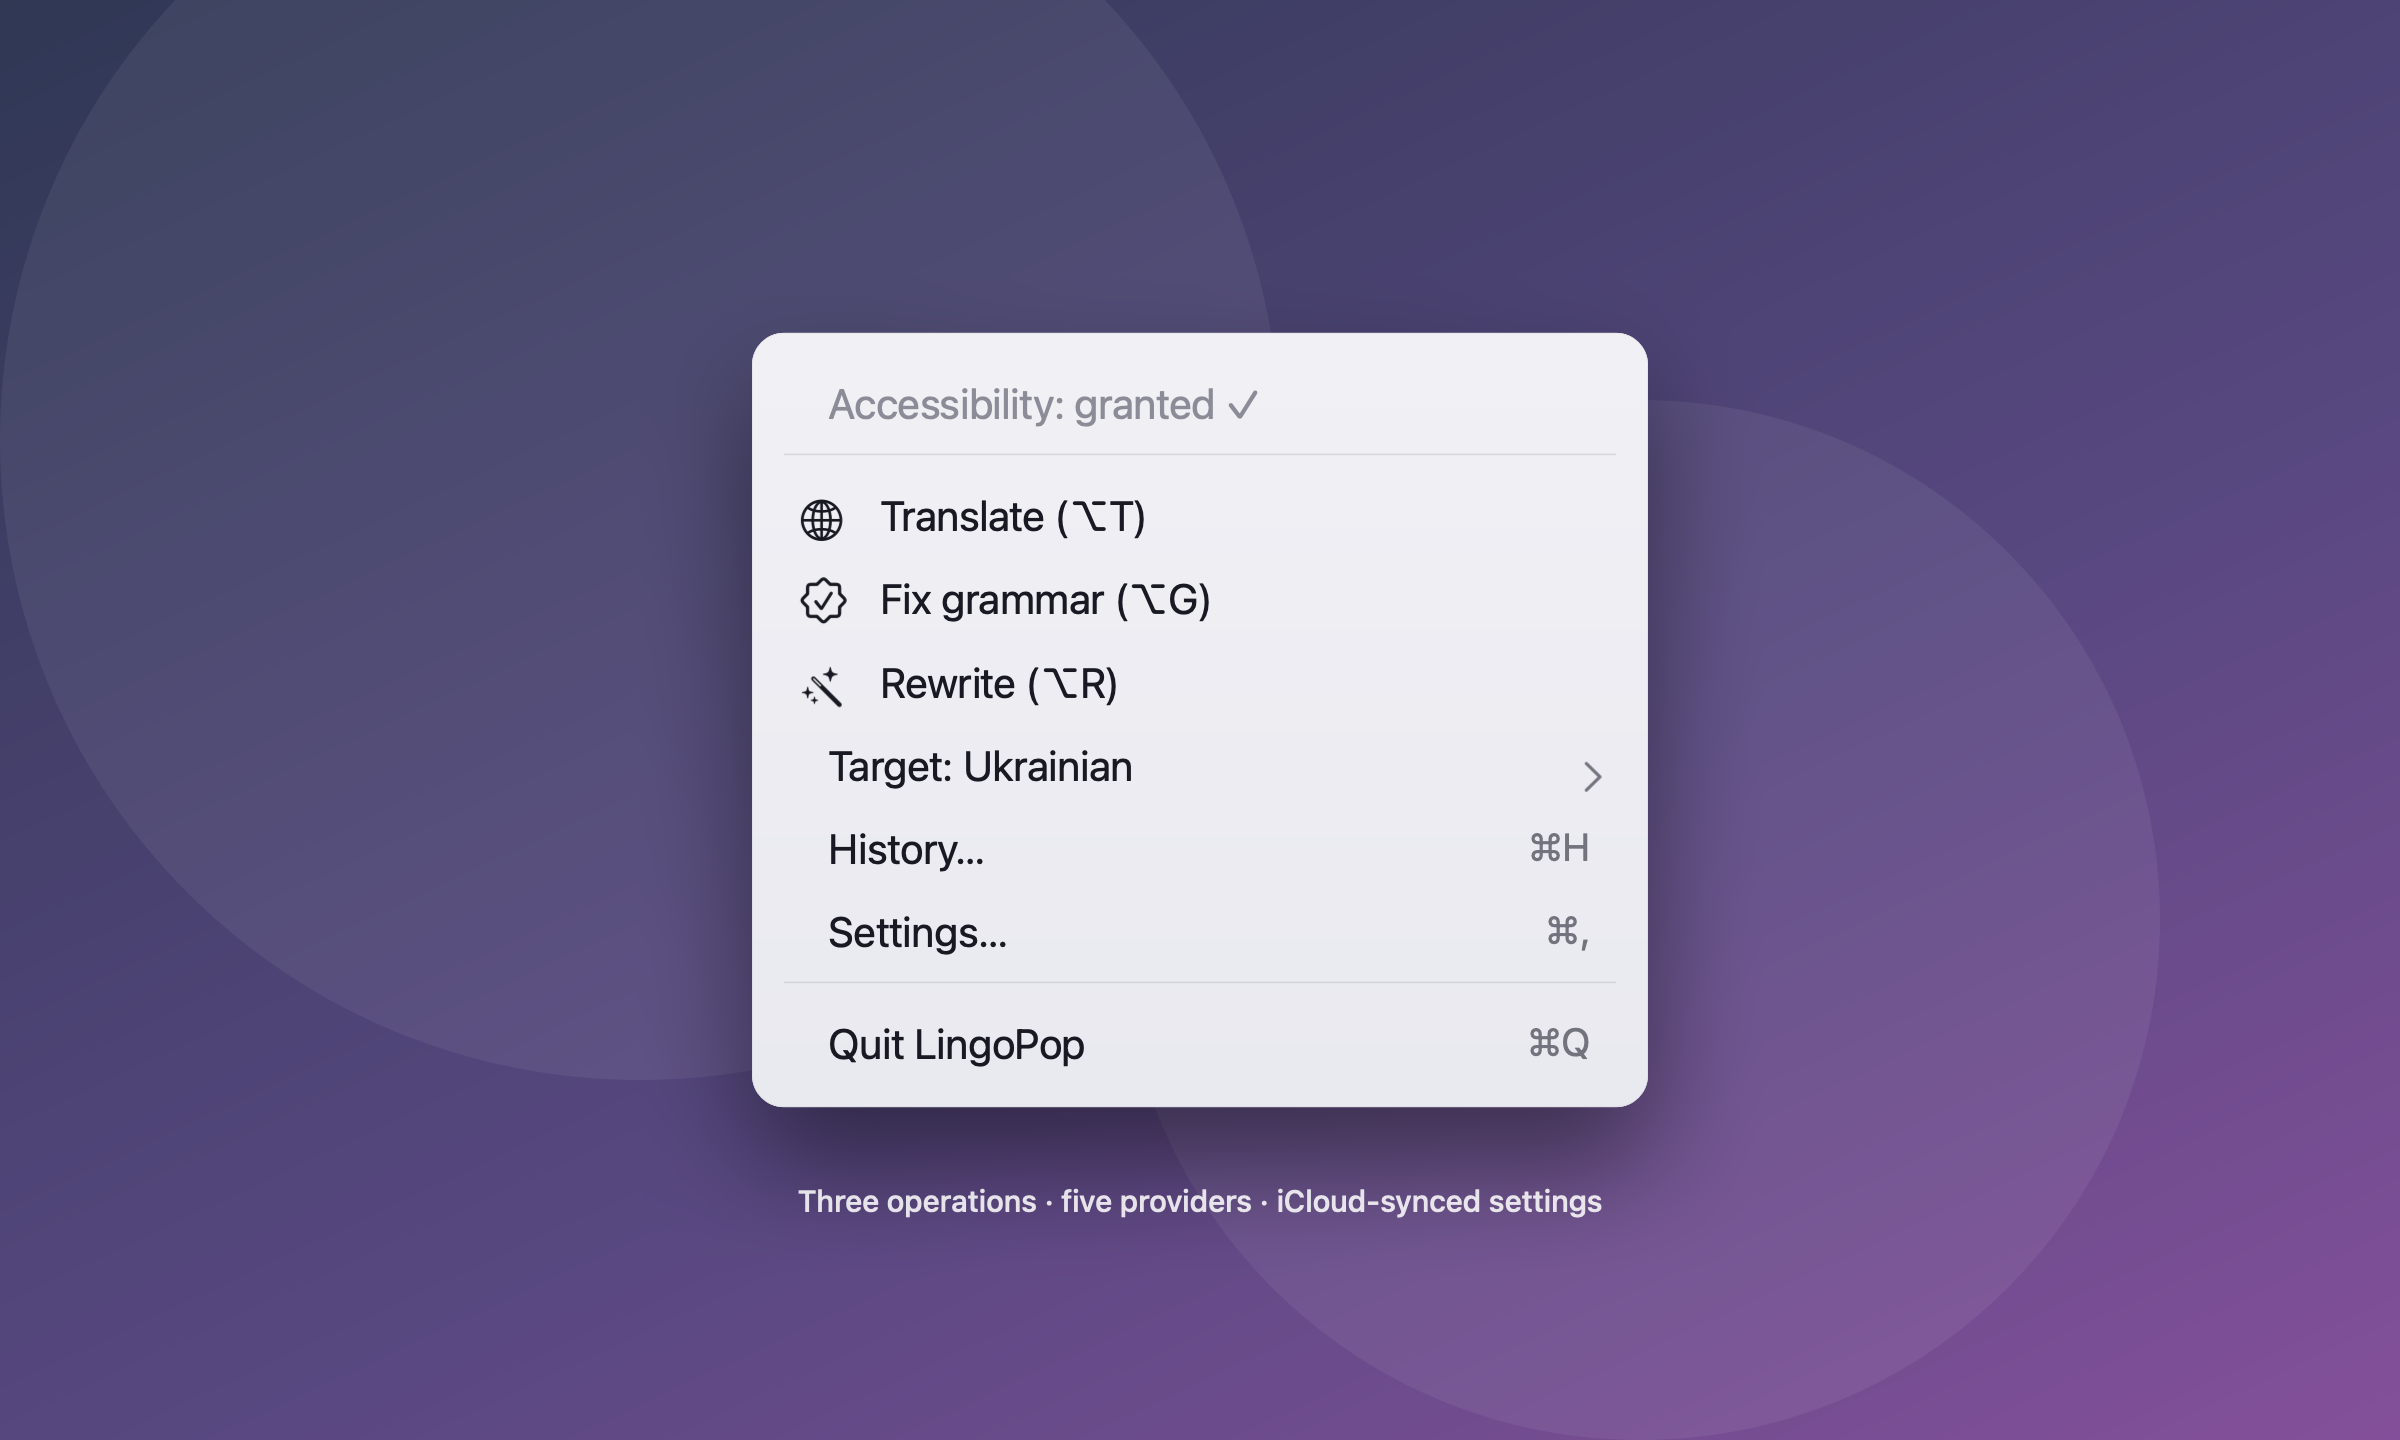
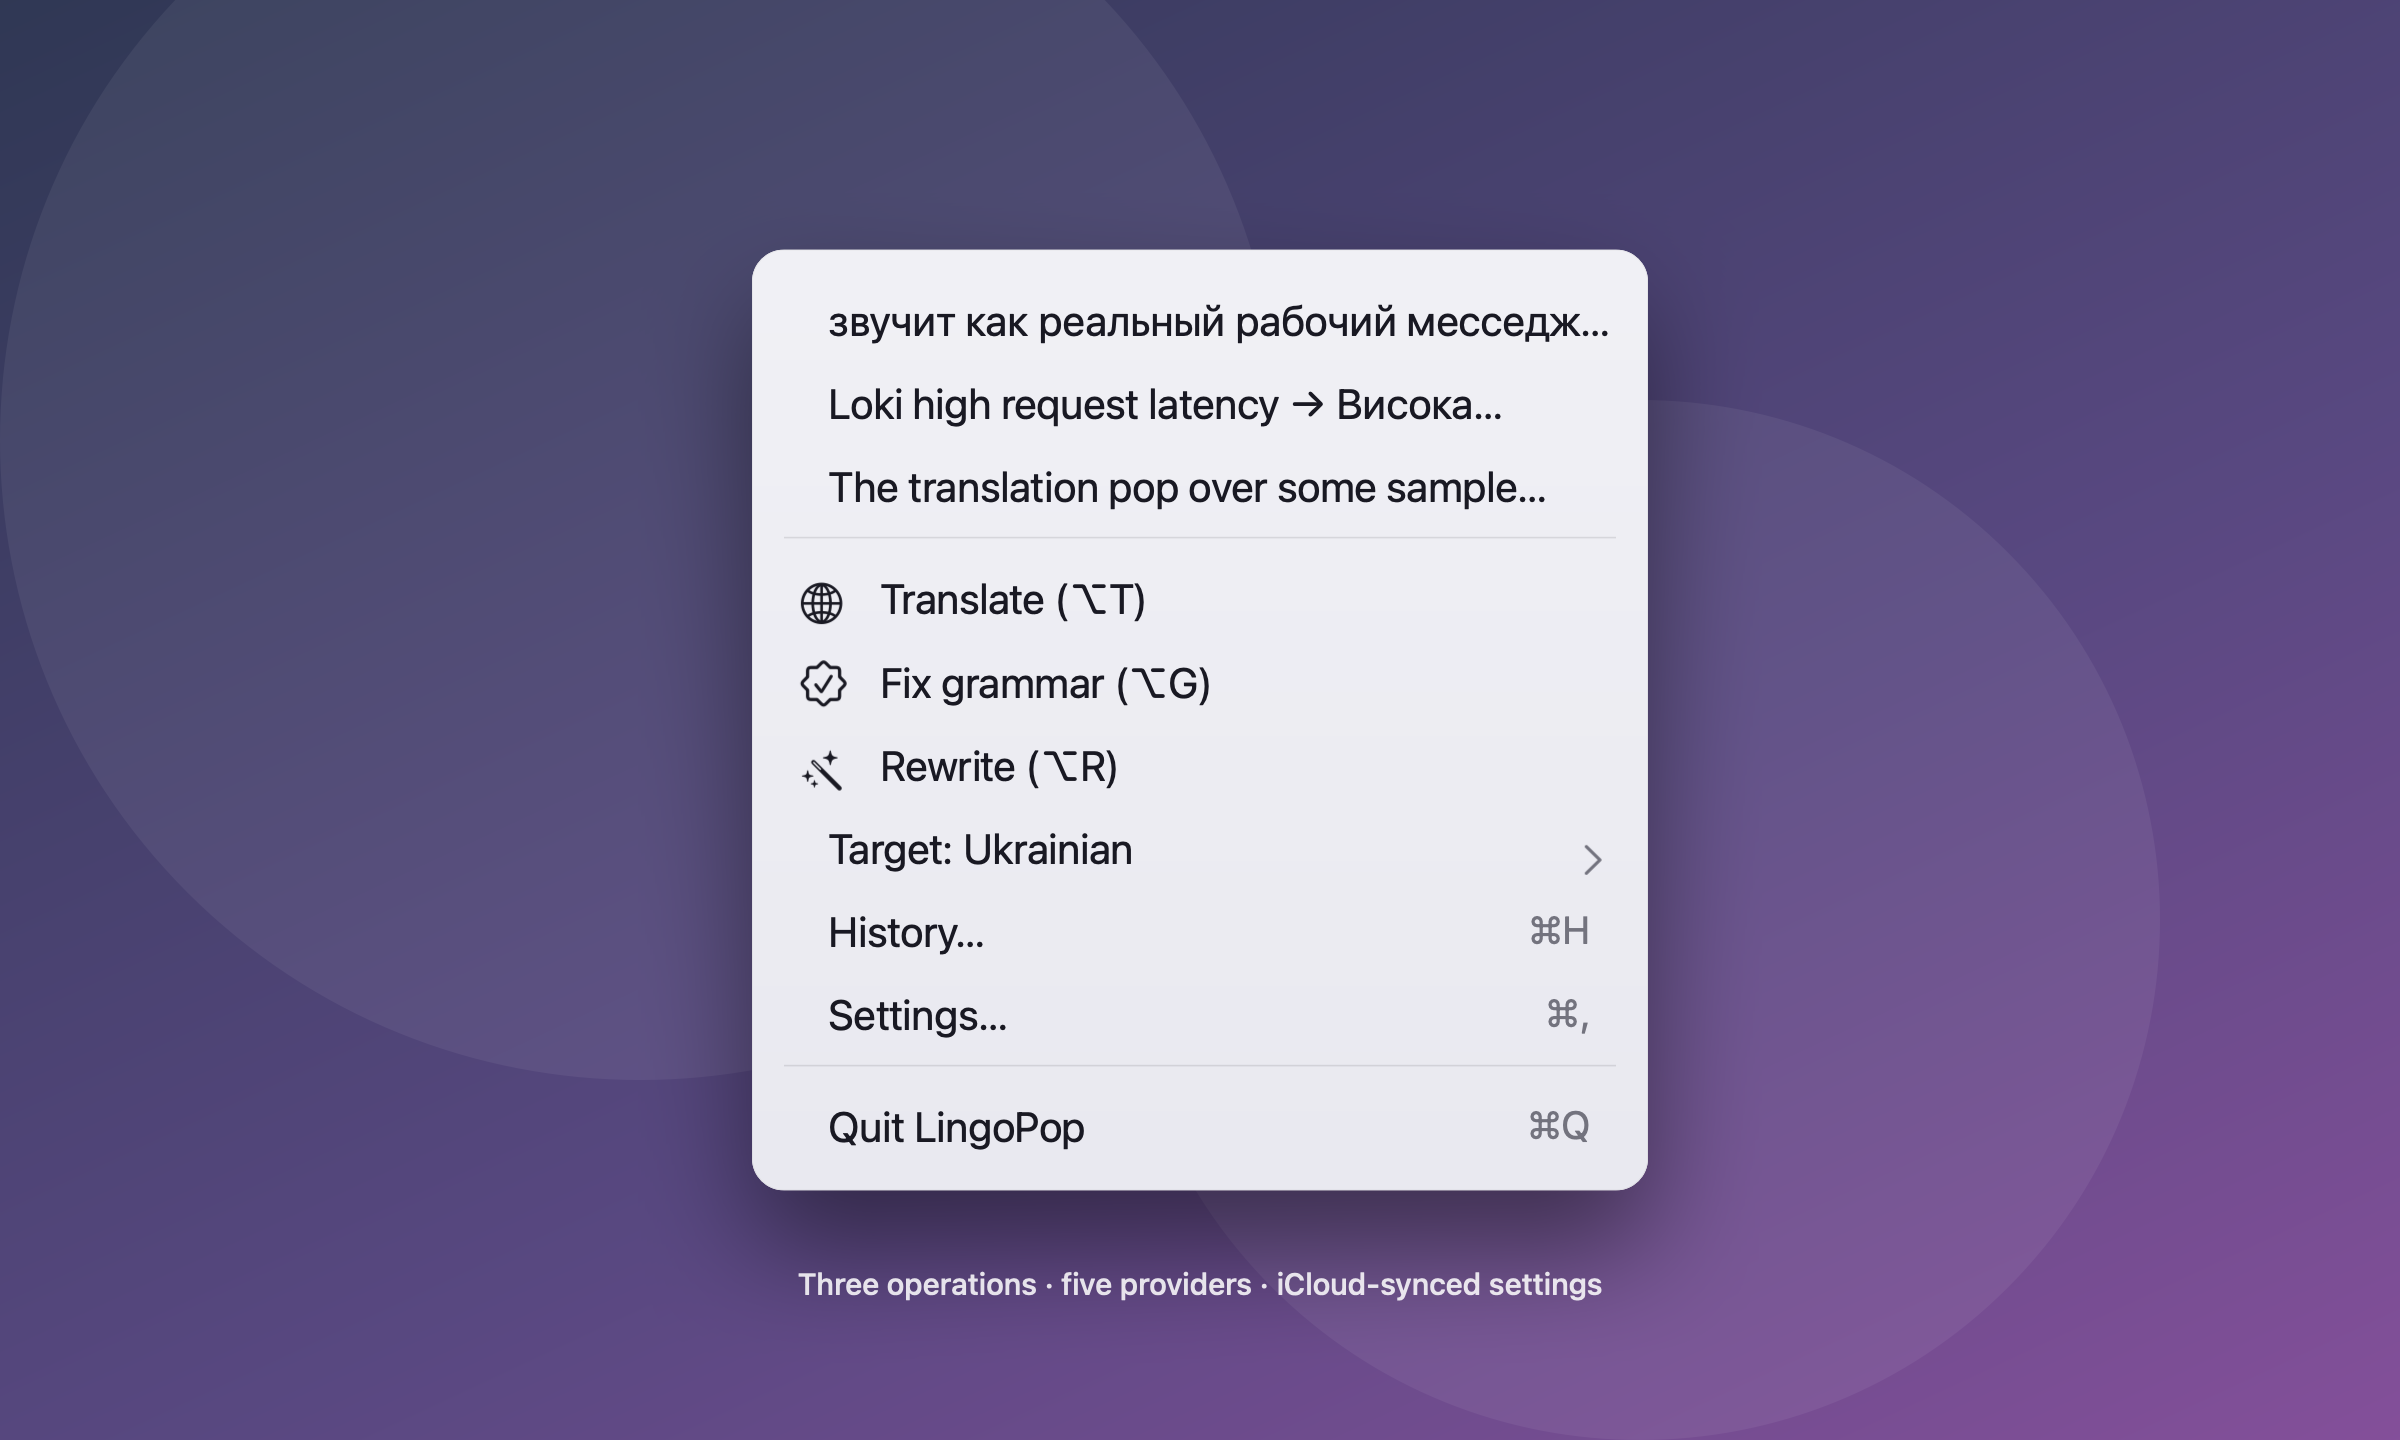
Refactor menu handling in AppDelegate to display recent translations; update README.md to highlight new feature and adjust screenshot sizes for better presentation.

diff --git a/App/AppDelegate.swift b/App/AppDelegate.swift
@@ -140,19 +140,20 @@ final class AppDelegate: NSObject, NSApplicationDelegate, NSMenuDelegate {
 
     private func rebuildMenu(_ menu: NSMenu) {
         menu.removeAllItems()
-        let granted = PermissionsManager.isAccessibilityGranted()
 
-        let statusItem = NSMenuItem(
-            title: granted ? "Accessibility: granted ✓" : "Accessibility: not granted ✗",
-            action: nil,
-            keyEquivalent: ""
-        )
-        statusItem.isEnabled = false
-        menu.addItem(statusItem)
-
-        if !granted {
-            menu.addItem(NSMenuItem(title: "Grant Accessibility…", action: #selector(requestAccessibilityAction), keyEquivalent: ""))
-            menu.addItem(NSMenuItem(title: "Open Accessibility Settings", action: #selector(openAccessibilitySettingsAction), keyEquivalent: ""))
+        let recentEntries = Array(historyStore.entries.prefix(3))
+        if recentEntries.isEmpty {
+            let placeholder = NSMenuItem(title: "No recent translations", action: nil, keyEquivalent: "")
+            placeholder.isEnabled = false
+            menu.addItem(placeholder)
+        } else {
+            for entry in recentEntries {
+                let fullText = historyMenuText(entry)
+                let item = NSMenuItem(title: truncatedMenuText(fullText), action: #selector(copyHistoryItemAction(_:)), keyEquivalent: "")
+                item.toolTip = fullText
+                item.representedObject = entry.translated
+                menu.addItem(item)
+            }
         }
         menu.addItem(NSMenuItem.separator())
 
@@ -450,12 +451,32 @@ final class AppDelegate: NSObject, NSApplicationDelegate, NSMenuDelegate {
         historyWindow.show()
     }
 
-    @objc private func requestAccessibilityAction() {
-        PermissionsManager.requestAccessibility()
+    @objc private func copyHistoryItemAction(_ sender: NSMenuItem) {
+        guard let text = sender.representedObject as? String else { return }
+        NSPasteboard.general.clearContents()
+        NSPasteboard.general.setString(text, forType: .string)
     }
 
-    @objc private func openAccessibilitySettingsAction() {
-        PermissionsManager.openAccessibilitySettings()
+    private func historyMenuText(_ entry: TranslationHistoryEntry) -> String {
+        let original = entry.original.trimmingCharacters(in: .whitespacesAndNewlines).replacingOccurrences(of: "\n", with: " ")
+        let translated = entry.translated.trimmingCharacters(in: .whitespacesAndNewlines).replacingOccurrences(of: "\n", with: " ")
+        return "\(original) → \(translated)"
+    }
+
+    private func truncatedMenuText(_ text: String) -> String {
+        let font = NSFont.menuFont(ofSize: 0)
+        let attrs: [NSAttributedString.Key: Any] = [.font: font]
+        let maxWidth: CGFloat = 270
+        guard (text as NSString).size(withAttributes: attrs).width > maxWidth else { return text }
+        var truncated = text
+        while truncated.count > 1 {
+            truncated = String(truncated.dropLast())
+            let candidate = truncated + "…"
+            if (candidate as NSString).size(withAttributes: attrs).width <= maxWidth {
+                return candidate
+            }
+        }
+        return "…"
     }
 
     @objc private func quitAction() {

diff --git a/scripts/generate-mockups.swift b/scripts/generate-mockups.swift
@@ -178,14 +178,16 @@ let menuImage = NSImage(size: menuCanvas, flipped: false) { rect in
 
     // ── Row data
     enum Row {
-        case header(String)
+        case recent(String)
         case operation(symbol: String, title: String, hotkey: String)
         case submenu(title: String)
         case command(title: String, key: String)
         case separator
     }
     let rows: [Row] = [
-        .header("Accessibility: granted ✓"),
+        .recent("звучит как реальный рабочий месседж…"),
+        .recent("Loki high request latency → Висока…"),
+        .recent("The translation pop over some sample…"),
         .separator,
         .operation(symbol: "globe", title: "Translate", hotkey: "⌥T"),
         .operation(symbol: "checkmark.seal", title: "Fix grammar", hotkey: "⌥G"),
@@ -233,7 +235,6 @@ let menuImage = NSImage(size: menuCanvas, flipped: false) { rect in
     // colors
     let primary = NSColor(srgbRed: 0.10, green: 0.10, blue: 0.14, alpha: 1.0)
     let secondary = NSColor(srgbRed: 0.45, green: 0.45, blue: 0.50, alpha: 1.0)
-    let disabled = NSColor(srgbRed: 0.55, green: 0.55, blue: 0.60, alpha: 1.0)
 
     let titleFont = NSFont.systemFont(ofSize: 13 * scale, weight: .regular)
     let shortcutFont = NSFont.systemFont(ofSize: 12 * scale, weight: .regular)
@@ -242,9 +243,9 @@ let menuImage = NSImage(size: menuCanvas, flipped: false) { rect in
     var y = menuRect.maxY - 8 * scale
     for r in rows {
         switch r {
-        case .header(let text):
+        case .recent(let text):
             y -= rowH
-            drawText(text, at: NSPoint(x: menuRect.minX + 24 * scale, y: y + 4 * scale), font: titleFont, color: disabled)
+            drawText(text, at: NSPoint(x: menuRect.minX + 24 * scale, y: y + 4 * scale), font: titleFont, color: primary)
         case .operation(let symbol, let title, let hotkey):
             y -= rowH
             drawSymbol(symbol, at: NSPoint(x: menuRect.minX + 14 * scale, y: y + 3 * scale), fontSize: 13 * scale, color: primary)

diff --git a/public-repo/README.md b/public-repo/README.md
@@ -23,7 +23,21 @@
 </p>
 
 <p align="center">
-  <img src="docs/screenshots/menu.png" alt="Menu-bar dropdown" width="800"/>
+  <img src="docs/screenshots/menu.png" alt="Menu-bar dropdown" width="500"/>
+</p>
+
+<p align="center">
+  <img src="docs/screenshots/settings-main.png" alt="Settings – Main tab" width="600"/>
+  &nbsp;
+  <img src="docs/screenshots/settings-providers.png" alt="Settings – Providers tab" width="600"/>
+</p>
+
+<p align="center">
+  <img src="docs/screenshots/settings-shortcuts.png" alt="Settings – Shortcuts tab" width="800"/>
+</p>
+
+<p align="center">
+  <img src="docs/screenshots/history.png" alt="Translation history" width="600"/>
 </p>
 
 ## Features
@@ -35,7 +49,7 @@
 - 📋 Popup actions: **Copy**, **Replace** (pastes back into the source app), **Retry with another provider**
 - 🤖 Providers: **Claude**, **OpenAI**, **Gemini**, **Google Translate** (free public endpoint or official Cloud Translation v2)
 - 🔁 Per-provider fallback chains — falls back automatically on rate-limits, server errors, or network issues
-- 📜 Translation history (last N entries, configurable)
+- 📜 Translation history (last N entries, configurable) — recent translations also appear at the top of the menu for quick access
 - ☁ Settings sync between Macs via iCloud Drive. API keys stay local, encrypted with AES-GCM
 
 ## Install
@@ -75,6 +89,8 @@ After first launch, click the LingoPop icon in the menu bar → **Settings**.
 - **Main** — pick target language (or enable Auto-detect with language pairs), tune the character limit and history size, toggle Launch at login.
 - **Providers** — pick at least one provider and paste an API key. You can store keys for multiple providers and switch between them. Each provider has its own fallback.
 - **Shortcuts** — assign global hotkeys to Translate, Fix grammar, and Rewrite.
+
+The menu-bar dropdown shows the 3 most recent translations at the top — click one to copy the result to the clipboard.
 
 To use: select text in any app → press your hotkey → popup appears near your cursor.
 
